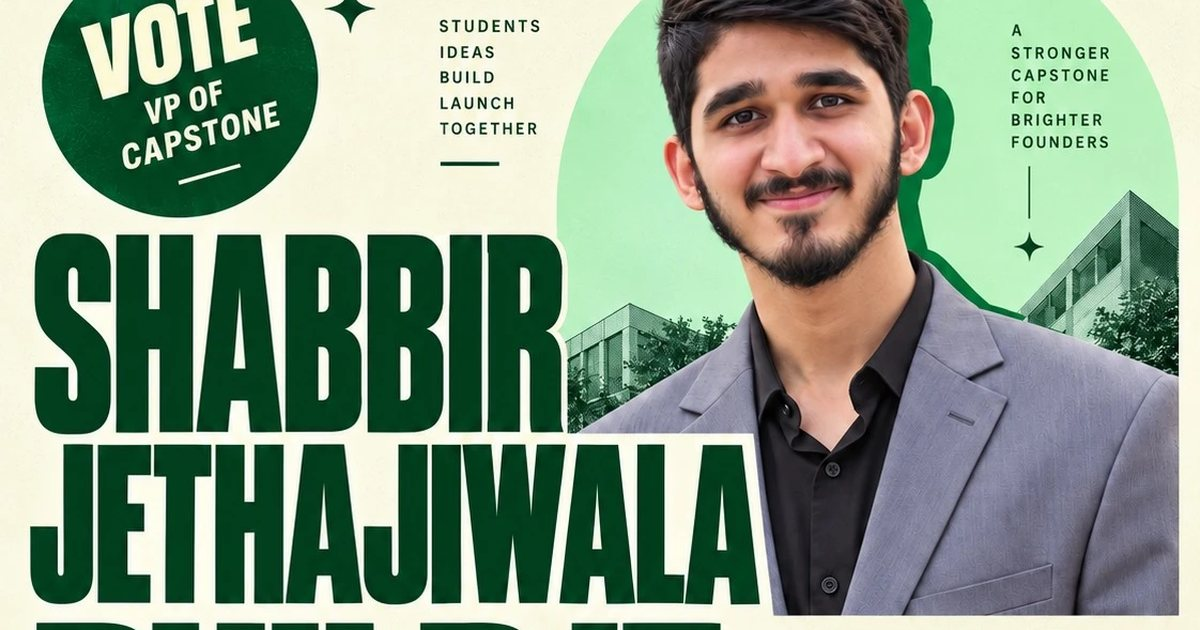
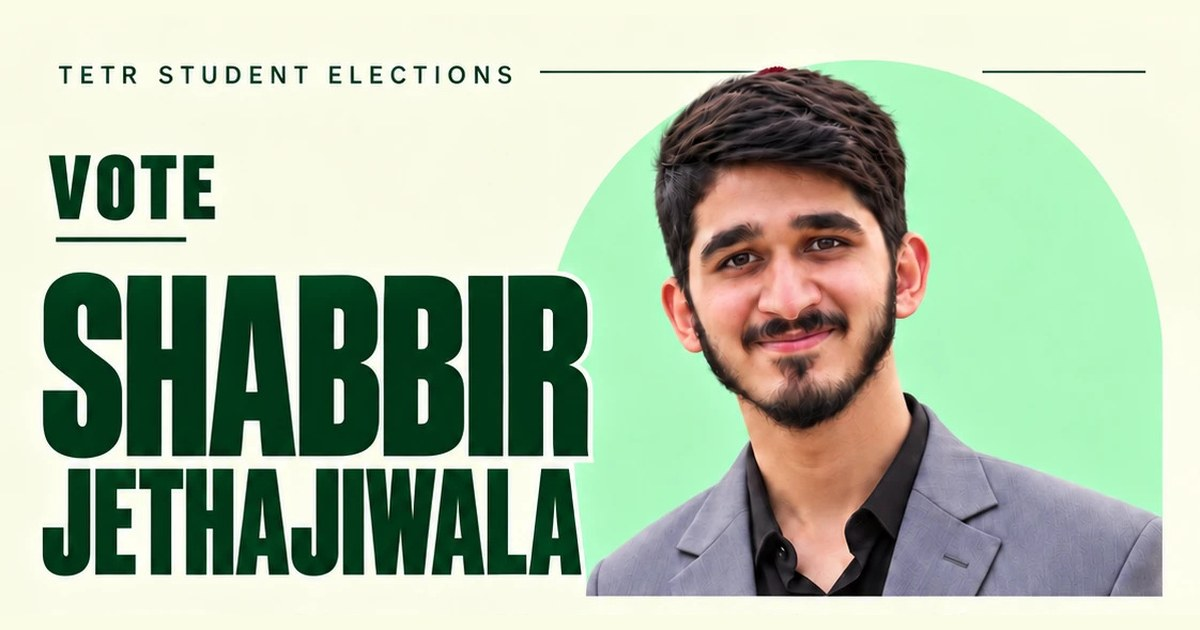
Match the page to the new poster and fix 320px phones
Use the poster's three promises (find customers, help you build, get your
business seen) in place of "Customer Sprint" and "venture spotlights".
The download button and share image now use the new poster.
Stop the header line, action buttons and footer link clipping on 320px
phones, and make the tilt hint a full-size tap target.

diff --git a/index.html b/index.html
@@ -4,12 +4,14 @@
 <meta charset="utf-8">
 <meta name="viewport" content="width=device-width, initial-scale=1, viewport-fit=cover">
 <title>Vote Shabbir Jethajiwala for VP of Capstone</title>
-<meta name="description" content="You build. I'll open doors. Customer outreach, brand collaborations and venture spotlights. Shabbir Jethajiwala for VP of Capstone. Vote Thursday, 15 October.">
+<meta name="description" content="You build. I'll open doors. Help finding customers, hands-on help building, and getting your business seen. Shabbir Jethajiwala for VP of Capstone. Vote Thursday, 15 October.">
 <meta name="theme-color" content="#0E3B21">
 <meta property="og:title" content="Vote Shabbir for VP of Capstone">
 <meta property="og:description" content="You build. I'll open doors. Customers. Collaborations. Visibility. Vote Shabbir for VP of Capstone on Thursday, 15 October.">
-<meta property="og:image" content="https://vote-shabbir.vercel.app/assets/campaign-poster-v2.png">
-<meta property="og:image:alt" content="Vote Shabbir Jethajiwala for VP of Capstone. You build. I’ll open doors. Vote Thursday, 15 October.">
+<meta property="og:image" content="https://vote-shabbir.vercel.app/assets/og.jpg">
+<meta property="og:image:alt" content="Tetr Student Elections. Vote Shabbir Jethajiwala, VP of Capstone.">
+<meta property="og:image:width" content="1200">
+<meta property="og:image:height" content="630">
 <meta property="og:url" content="https://vote-shabbir.vercel.app/">
 <meta property="og:type" content="website">
 <meta name="twitter:card" content="summary_large_image">
@@ -53,7 +55,7 @@
 
     <h1><span><i>Shabbir</i></span><span><i>Jethajiwala</i></span></h1>
     <p class="slogan"><span>You build.</span><span class="g">I’ll open doors.</span></p>
-    <p class="lede">Customer outreach. Brand &amp; creator collaborations. Student venture spotlights.</p>
+    <p class="lede">Find customers. Build your product. Get your business seen.</p>
 
     <div class="hero-cta">
       <a class="btn btn-ink" href="#promise">See the plan</a>
@@ -76,20 +78,20 @@
     <ol class="steps">
       <li class="reveal">
         <span class="num">01</span>
-        <div><h3>Customer outreach</h3><p>Help identify potential buyers, sharpen your approach, and contact people who could use your product.</p><a class="link down" href="#build">Sharpen your offer</a></div>
+        <div><h3>Help you find customers</h3><p>Monthly sessions to contact real buyers. We sharpen your offer, write your pitch and reach out together.</p><a class="link down" href="#build">Sharpen your offer</a></div>
       </li>
       <li class="reveal">
         <span class="num">02</span>
-        <div><h3>Brand &amp; creator collaborations</h3><p>I’ll pitch relevant businesses and creators for collaborations, and make introductions when they agree.</p></div>
+        <div><h3>Help you build</h3><p>Hands-on support with your product or website.</p></div>
       </li>
       <li class="reveal">
         <span class="num">03</span>
-        <div><h3>Student venture spotlights</h3><p>Opt-in content that shows what your team has built, who it helps, and how people can try it.</p></div>
+        <div><h3>Get your business seen</h3><p>Student business features and help with promotion. Opt-in, showing what your team built and how people can try it.</p></div>
       </li>
     </ol>
 
     <div class="supports">
-      <div class="reveal"><h3>Monthly Customer Sprint</h3><p>An optional session to sharpen your offer, write your pitch, and contact potential customers together.</p></div>
+      <div class="reveal"><h3>Brand &amp; creator collaborations</h3><p>I’ll pitch relevant businesses and creators for collaborations, and make introductions when they agree.</p></div>
       <div class="reveal"><h3>Every team can ask</h3><p>Requests open to the whole cohort. Opportunities shared openly, with clear criteria when places are limited.</p></div>
     </div>
   </div>
@@ -128,8 +130,8 @@
       <button role="tab" aria-selected="false" data-i="3">Selling, want more</button>
     </div>
     <div class="answer reveal" id="answer" role="tabpanel" aria-live="polite">
-      <p class="label" id="ansTag">Customer outreach</p>
-      <p class="ans-text" id="ansText">Tell me who would use your product. We can sharpen your approach and work on reaching potential buyers.</p>
+      <p class="label" id="ansTag">Help finding customers</p>
+      <p class="ans-text" id="ansText">Tell me who would use your product. The monthly sessions are for this: we sharpen your offer and contact real buyers.</p>
       <a class="link" id="ansLink" href="https://wa.me/971556961826" target="_blank" rel="noopener">Message me about this</a>
     </div>
   </div>
@@ -173,7 +175,7 @@
       <a class="btn btn-mint" id="waMain" href="https://wa.me/971556961826" target="_blank" rel="noopener">Tell me who you need to reach</a>
       <a class="btn btn-ghost" id="remind" href="https://calendar.google.com/calendar/render?action=TEMPLATE&amp;text=Vote%20Shabbir%20for%20VP%20of%20Capstone&amp;dates=20261015/20261016" target="_blank" rel="noopener">Remind me on Thursday</a>
       <button class="btn btn-ghost" id="share" type="button">Share with your team</button>
-      <a class="btn btn-ghost" href="assets/campaign-poster-v2.png" download="shabbir-vp-capstone.png">Download the poster</a>
+      <a class="btn btn-ghost" href="assets/shabbir-vp-capstone-poster.jpg" download="Vote-Shabbir-VP-of-Capstone.jpg">Download the poster</a>
     </div>
   </div>
 </section>

diff --git a/app.js b/app.js
@@ -88,22 +88,22 @@ $('#remind').href =
 const ANSWERS = [
   {
     tag: 'Start with real conversations',
-    text: 'Let’s identify a problem and people you can speak with before building. The monthly sprint can help you test an early offer.',
+    text: 'Let’s identify a problem and people you can speak with before building. The monthly sessions can help you test an early offer.',
     msg: 'Hey Shabbir, I don’t have a capstone idea yet. Where do I start?',
   },
   {
-    tag: 'Find people who can test it',
-    text: 'You can start talking to potential users while you build. Tell me who your MVP is for and I’ll help think through outreach for feedback.',
+    tag: 'Help building',
+    text: 'I can help hands-on with your product or website. Tell me who the MVP is for and we can find people to test it while you build.',
     msg: 'Hey Shabbir, we’re building our Capstone MVP and need people to test it. It’s for:',
   },
   {
-    tag: 'Customer outreach',
-    text: 'Tell me who would use your product. We can sharpen your approach and work on reaching potential buyers.',
+    tag: 'Help finding customers',
+    text: 'Tell me who would use your product. The monthly sessions are for this: we sharpen your offer and contact real buyers.',
     msg: 'Hey Shabbir, my capstone is built but has no customers yet. It is: ',
   },
   {
-    tag: 'New collaborations and visibility',
-    text: 'Already selling? Let’s identify a relevant business or creator to approach, or put together a spotlight for your venture. My experience is in pitching partnerships and making content.',
+    tag: 'Get your business seen',
+    text: 'Already selling? Let’s identify a relevant business or creator to approach, or put together a feature on your business. My experience is in pitching partnerships and making content.',
     msg: 'Hey Shabbir, our Capstone is already selling. We’d like help reaching a new partner or audience. It is: ',
   },
 ];

diff --git a/styles.css b/styles.css
@@ -72,7 +72,7 @@ h3{font-stretch:112%;font-weight:900;text-transform:uppercase;font-size:21px;lin
 .arch img{transform-origin:50% 0;scale:1.06;translate:calc(var(--tx)*2.6%) calc(var(--ty)*1.6%)}
 .badge{translate:0 0 70px;scale:.93}
 .stack{translate:0 0 30px}
-.tilt-hint{position:absolute;right:8px;bottom:14%;translate:0 0 50px;min-height:32px;padding:0 13px;border:0;border-radius:999px;background:var(--ink);color:var(--cream);font:inherit;font-size:11.5px;font-weight:700;letter-spacing:.14em;text-transform:uppercase;cursor:pointer}
+.tilt-hint{position:absolute;right:8px;bottom:14%;translate:0 0 50px;min-height:44px;padding:0 15px;border:0;border-radius:999px;background:var(--ink);color:var(--cream);font:inherit;font-size:11.5px;font-weight:700;letter-spacing:.14em;text-transform:uppercase;cursor:pointer}
 .tilt-hint[hidden]{display:none}
 .badge .ring{position:absolute;inset:0;width:100%;height:100%;animation:spin 22s linear infinite}
 .badge .ring text{font-family:"Archivo",sans-serif;font-size:16.3px;font-weight:700;fill:var(--mint)}
@@ -220,6 +220,14 @@ h1 i{font-style:normal;display:inline-block;background:var(--cream);padding:.04e
 .js .steps li:nth-child(2),.js .proof li:nth-child(2),.js .supports>div:nth-child(2){transition-delay:.08s}
 .js .steps li:nth-child(3),.js .proof li:nth-child(3){transition-delay:.16s}
 .js .proof li:nth-child(4){transition-delay:.24s}
+
+/* very narrow phones */
+@media (max-width:359px){
+  .rule-line{gap:8px;font-size:10px;letter-spacing:.12em}
+  .actions{grid-template-columns:minmax(0,1fr)}
+  .actions .btn{padding:0 14px}
+  .actions .btn-mint{font-size:15.5px}
+}
 
 /* large phones and tablets: keep the poster stage in proportion */
 @media (min-width:560px) and (max-width:959px){
